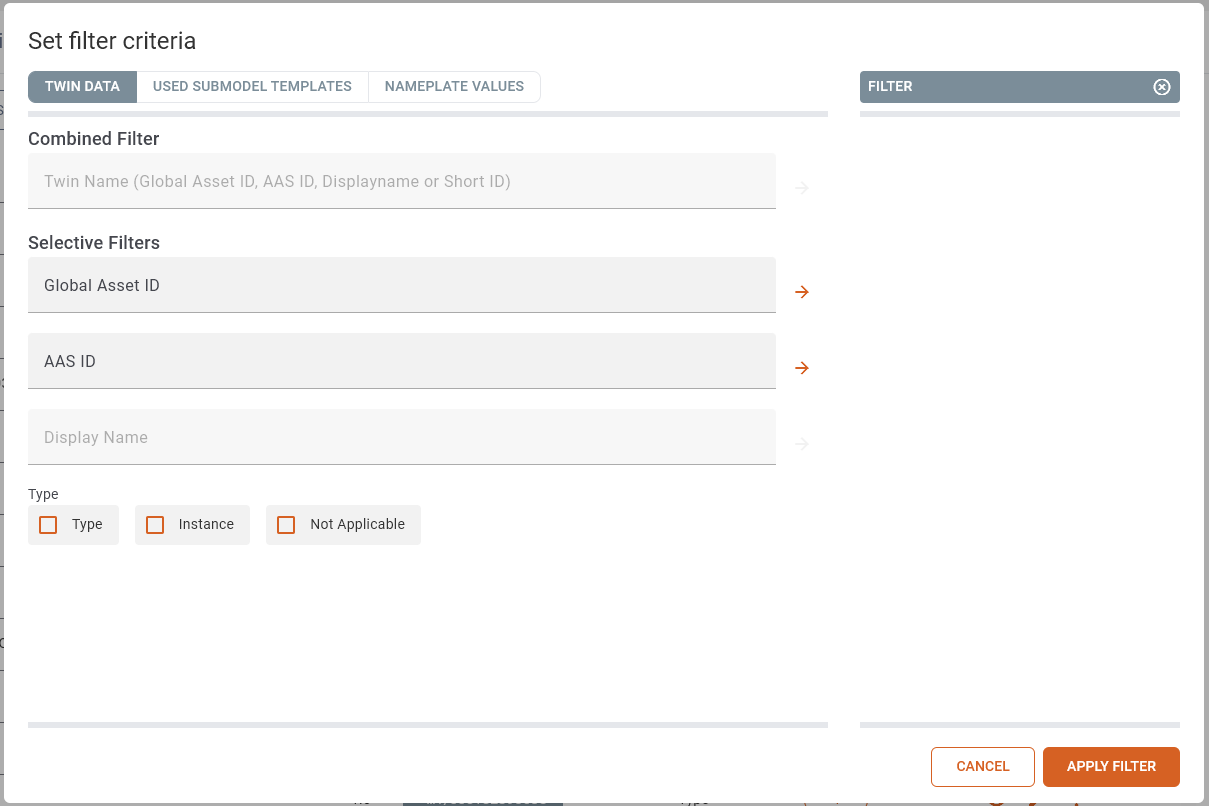
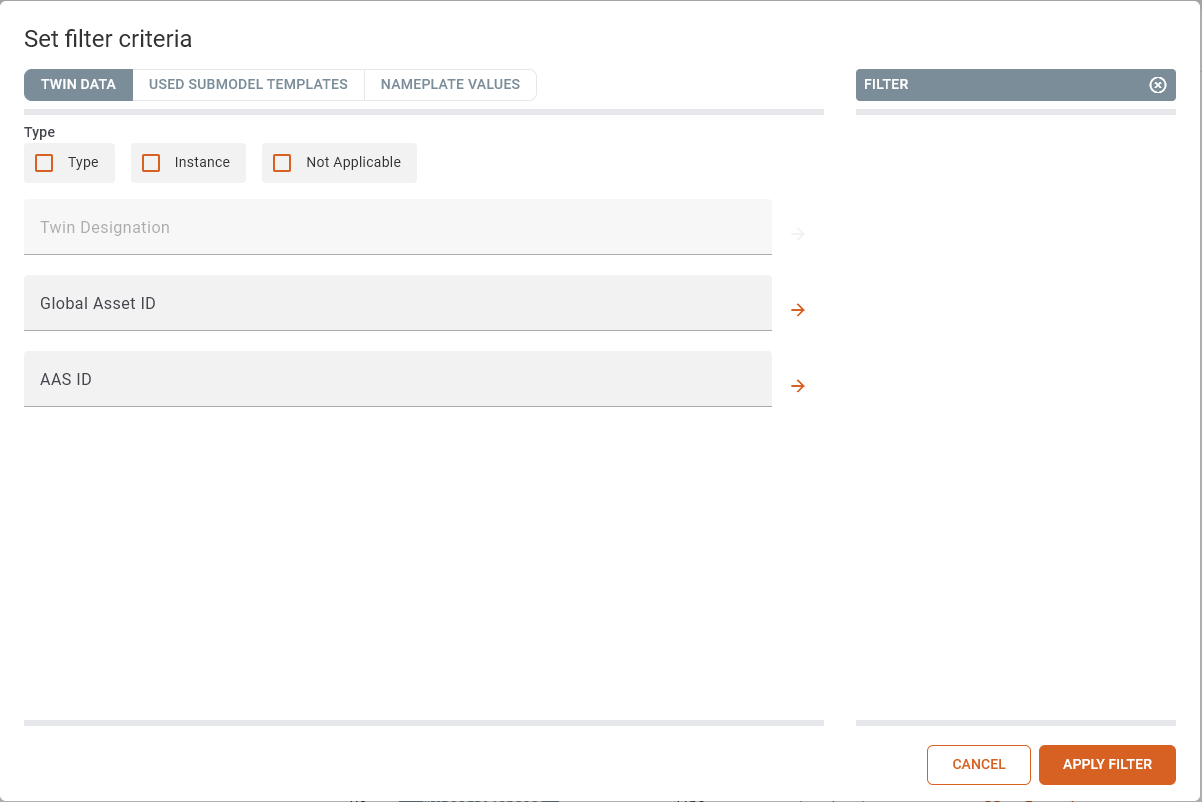
feat(twinstudio): rework catalog for submodels with cards

Changed region(s): [[0.0, 0.0, 1.0, 1.0], [0.2155, 0.6234, 0.3386, 0.6546], [0.1231, 0.6234, 0.1847, 0.6546]]

diff --git a/docs/studio-catalog.md b/docs/studio-catalog.md
@@ -27,9 +27,9 @@ If no revision is given it will be assumed as *0*.
 
 ## Catalog of Twins
 
-The catalog of twins has a toggle on top to switch between *asset administration shells* and *submodels*.
-
-### Asset Administration Shells
+You can switch between cards and the table by using the buttons **Show as Table** and **Show as Card**.
+A card and a table column provide the same actions.
+Additionaly a card can display the description and the thumbnail of an asset administration shell.
 
 You can switch between cards and the table by using the buttons **Show as Table** and **Show as Card**.
 A card and a table column provide the same actions.
@@ -76,7 +76,7 @@ which submodels to include and if concept descriptions should be added
 - The **duplication** of *instance* twins (not types).
 - The **deletion** of twins.
 
-#### Delete Twin Dialog
+### Delete Twin Dialog
 
 After clicking on the **deletion** entry, a dialog appears. There you can see which twin will get deleted.
 You also have the possibility to deselect certain submodels of the twin, if you do not want them to be deleted.
@@ -85,7 +85,7 @@ you will get a warning about its implications.
 
 ![Twin Catalog](img/twinstudio_catalog_twins_delete_twin_dialog.png){: width='350'}
 
-#### Duplication of Instance Twins
+### Duplication of Instance Twins
 
 When duplicating an existing twin all of its data (shell and referenced submodels) are duplicated. New IDs are created
 and assigned to the copies. We highly recommend using the studio's
@@ -93,11 +93,13 @@ and assigned to the copies. We highly recommend using the studio's
 and GlobalAssetID manually and we will use the aas-id value appended by "/sm/{ULID}" automatically for all new submodel
 IDs.
 
-### Submodels
+## Catalog of Submodels
 
-![Twin Catalog - Submodels](img/twinstudio_catalog_twins_submodels.png){: width='800'}
+![Twin Catalog - Submodels Submodel View](img/twinstudio_catalog_submodels_cards.png){: width='800'}
+![Twin Catalog - Submodels Table View](img/twinstudio_catalog_submodels_table.png){: width='800'}
 
-The Submodels view of the Twin Catalog lists all existing submodels of the connected tenant.
+The Submodels tab of the Catalog lists all existing submodels, either instance or template,
+of the connected tenant in a card or table view.
 
 The **export** of a submodel is available as action in the more menu of each record,
 which opens a dialog to select format and destination for your export.
@@ -135,16 +137,6 @@ the available languages according to following criteria:
 You can select another language value by clicking on the corresponding language tag.
 Hovering over a tag will display an indicator above it.
 The selected language is highlighted with a gray background.
-
-## Catalog of Submodel Templates
-
-![Submodel Template Catalog](img/twinstudio_catalog_submodeltemplates.png){: width='800'}
-
-This catalog displays all *submodels* in your twinsphere repository that are of kind **template**.
-These are the ones you can choose from when adding new submodel to your twin in
-[Twin Builder](studio-twin-builder.md/#addremove-submodels).
-
-The **export** of a submodel template is available as action in the more menu of each record.
 
 ## Catalog of Drafts
 